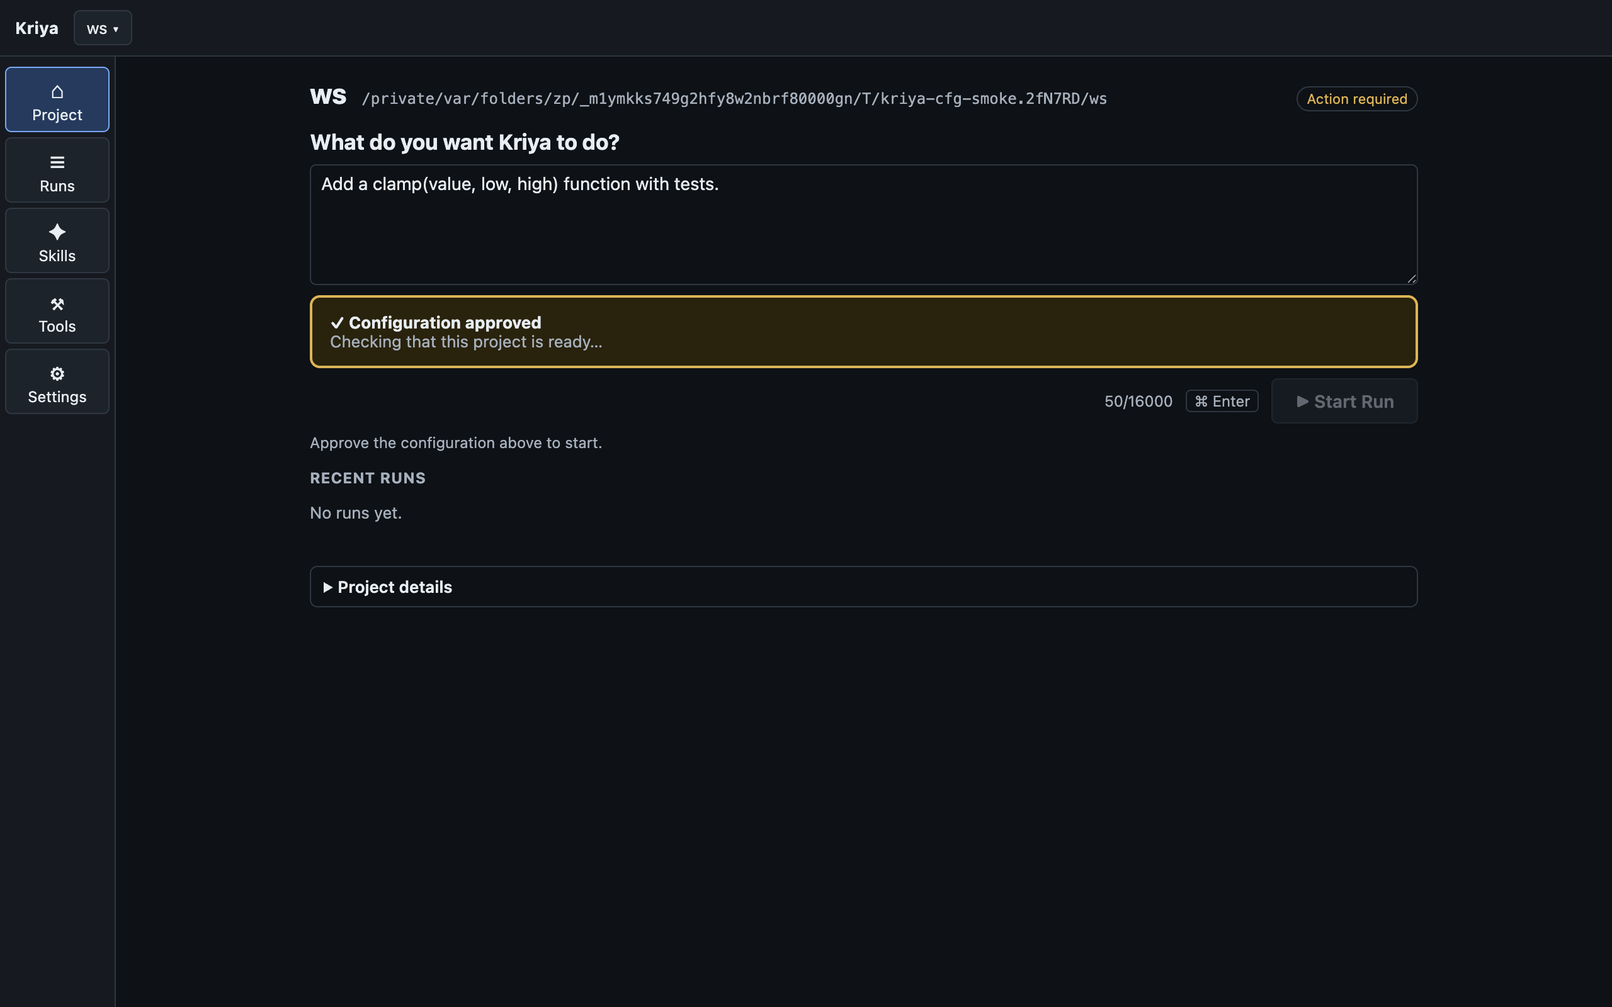
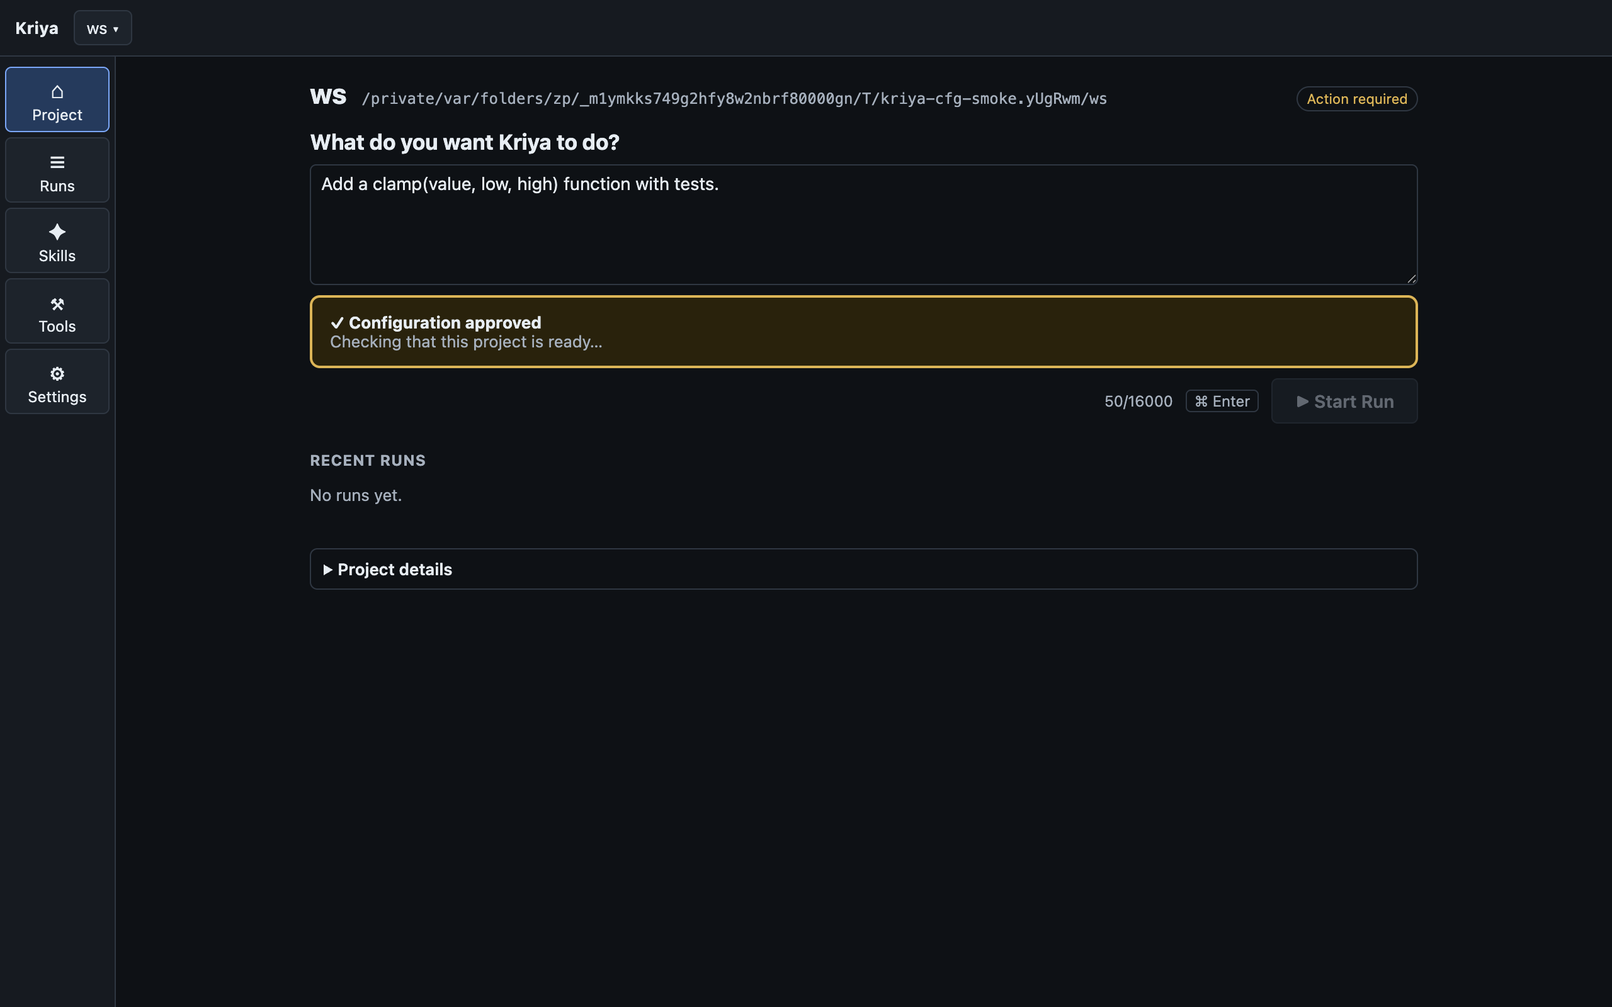
gui: review fixes for configuration approval (source and meaning shown, no dead end after an external approval), review record, re-captured evidence

Changed region(s): [[0.1875, 0.4375, 0.3438, 0.5312], [0.1875, 0.5625, 0.2812, 0.5938], [0.625, 0.0938, 0.6562, 0.125]]

diff --git a/ui/shared/src/cockpit/shell/config_approval.test.tsx b/ui/shared/src/cockpit/shell/config_approval.test.tsx
@@ -87,12 +87,14 @@ describe('B/C. the review shows protected setting NAMES and never a value', () =
   it('lists every protected setting by name, the project, the fingerprint and the scope sentence; technical details are one disclosure down', async () => {
     const host = await open();
     const d = await reviewAndApprove();
-    for (const f of FIELDS) expect(await within(d).findByText(f, { selector: 'li' })).toBeInTheDocument();
+    for (const f of FIELDS) expect(await within(d).findByText(f, { selector: 'li > span.mono' })).toBeInTheDocument();
     expect(d).toHaveTextContent('Project: workspace');
     expect(d).toHaveTextContent('Kriya requires approval for operator-controlled configuration used by this project.');
     expect(screen.getByTestId('approval-scope')).toHaveTextContent('This approval applies only to the current protected configuration. If those settings change, Kriya will require approval again.');
     expect(d).toHaveTextContent(/Configuration fingerprint: [0-9a-f]{12}/);
     expect(d).toHaveTextContent('Only the names of the settings are shown');
+    expect(screen.getByTestId('approval-meaning')).toHaveTextContent(/come from configuration files.*You are the operator: approve only if you trust this configuration/);
+    expect(within(d).getAllByText("· set by this project's kriya.yaml")).toHaveLength(FIELDS.length); // where each setting came from, in the main view
     const technical = within(d).getByText('Technical details').closest('details')!;
     expect(technical).not.toHaveAttribute('open');
     expect(technical).toHaveTextContent(host.exec!.approvalStatus(WS).fingerprint!);
@@ -130,7 +132,7 @@ describe('D/E. Cancel approves nothing; Approve sends one typed request carrying
   it('Enter inside the review does not approve (no default-keyboard approval)', async () => {
     const host = await open();
     const d = await reviewAndApprove();
-    await within(d).findByText('autonomy.mode', { selector: 'li' });
+    await within(d).findByText('autonomy.mode', { selector: 'li > span.mono' });
     fireEvent.keyDown(d, { key: 'Enter' });
     fireEvent.keyPress(d, { key: 'Enter', charCode: 13 });
     expect(host.exec!.approvals).toHaveLength(0);
@@ -138,7 +140,7 @@ describe('D/E. Cancel approves nothing; Approve sends one typed request carrying
   it('Approve Configuration is off until Kriya\'s status is read, then asks for exactly {workspace, fingerprint} - once', async () => {
     const host = await open();
     const d = await reviewAndApprove();
-    await within(d).findByText('autonomy.mode', { selector: 'li' });
+    await within(d).findByText('autonomy.mode', { selector: 'li > span.mono' });
     const fingerprint = host.exec!.approvalStatus(WS).fingerprint;
     fireEvent.click(approveButton());
     fireEvent.click(screen.queryByRole('button', { name: 'Approving…' }) ?? approveButton()); // a second click while in flight reaches nothing
@@ -155,7 +157,7 @@ describe('F/G/H. after approval readiness is read again, the goal survives and S
     typeGoal();
     const before = calls(host, 'execution.preflight');
     await reviewAndApprove();
-    await within(await dialog()).findByText('autonomy.mode', { selector: 'li' });
+    await within(await dialog()).findByText('autonomy.mode', { selector: 'li > span.mono' });
     fireEvent.click(approveButton());
     await waitFor(() => expect(screen.queryByRole('dialog')).toBeNull());
     await waitFor(() => expect(calls(host, 'execution.preflight')).toBeGreaterThan(before)); // readiness came from Kriya, not from the approval answer
@@ -179,7 +181,7 @@ describe('F/G/H. after approval readiness is read again, the goal survives and S
       return real(request);
     });
     await reviewAndApprove();
-    await within(await dialog()).findByText('autonomy.mode', { selector: 'li' });
+    await within(await dialog()).findByText('autonomy.mode', { selector: 'li > span.mono' });
     fireEvent.click(approveButton());
     await waitFor(() => expect(host.exec!.approvals).toHaveLength(1));
     expect(await screen.findByText(/Checking that this project is ready/)).toBeInTheDocument();
@@ -201,7 +203,7 @@ describe('F2. Kriya\'s next readiness answer, not the approval answer, decides w
       return real(request);
     });
     await reviewAndApprove();
-    await within(await dialog()).findByText('autonomy.mode', { selector: 'li' });
+    await within(await dialog()).findByText('autonomy.mode', { selector: 'li > span.mono' });
     fireEvent.click(approveButton());
     await waitFor(() => expect(host.exec!.approvals).toHaveLength(1));
     expect(await screen.findByText(/Checking that this project is ready/)).toBeInTheDocument();
@@ -225,7 +227,7 @@ describe('I. another blocker is never hidden', () => {
     expect(also).toHaveTextContent('TOOL_UNAVAILABLE');
     expect(also).not.toHaveTextContent('CONFIG_AUTHORITY_REFUSED');
     await reviewAndApprove();
-    await within(await dialog()).findByText('autonomy.mode', { selector: 'li' });
+    await within(await dialog()).findByText('autonomy.mode', { selector: 'li > span.mono' });
     fireEvent.click(approveButton());
     await waitFor(() => expect(host.exec!.approvals).toHaveLength(1));
     await waitFor(() => expect(screen.queryByRole('region', { name: 'Configuration approval' })).toBeNull());
@@ -242,14 +244,14 @@ describe('J. a configuration that changed while it was being reviewed is not app
     const host = await open();
     typeGoal();
     const d = await reviewAndApprove();
-    await within(d).findByText('autonomy.mode', { selector: 'li' });
+    await within(d).findByText('autonomy.mode', { selector: 'li > span.mono' });
     const reviewed = host.exec!.approvalStatus(WS).fingerprint;
     host.exec!.changeConfiguration([...FIELDS, 'execution_policy.network']); // the race: the configuration changes after Review, before Approve
     fireEvent.click(approveButton());
     expect(await within(await dialog()).findByText('Configuration changed while you were reviewing it. Review the updated configuration before approving.')).toBeInTheDocument();
     expect(host.exec!.approvals).toEqual([{ workspace: WS, fingerprint: reviewed }]);
     expect(host.exec!.approvalStatus(WS).status).toBe('required'); // NOT approved
-    expect(await within(await dialog()).findByText('execution_policy.network', { selector: 'li' })).toBeInTheDocument(); // the reload shows the updated configuration
+    expect(await within(await dialog()).findByText('execution_policy.network', { selector: 'li > span.mono' })).toBeInTheDocument(); // the reload shows the updated configuration
     expect(screen.getByRole('dialog')).toBeInTheDocument();
     expect(host.exec!.approvals).toHaveLength(1); // nothing was approved on the person's behalf
     fireEvent.click(approveButton());
@@ -260,12 +262,31 @@ describe('J. a configuration that changed while it was being reviewed is not app
   });
 });
 
+describe('F3. an approval that happened elsewhere does not strand the page', () => {
+  it('if the configuration was approved after the card appeared (e.g. in a terminal), the review says so and closing it re-reads readiness so Start Run turns on', async () => {
+    const host = spyOnQueries(await open());
+    await card();
+    typeGoal();
+    const fingerprint = host.exec!.approvalStatus(WS).fingerprint!;
+    await host.exec!.port.approveConfiguration!({ workspace: WS, fingerprint }); // approved by another client
+    const before = calls(host, 'execution.preflight');
+    const d = await reviewAndApprove();
+    expect(await within(d).findByText(/This configuration is already approved/)).toBeInTheDocument();
+    expect(approveButton()).toBeDisabled();
+    fireEvent.click(within(d).getByRole('button', { name: 'Cancel' }));
+    await waitFor(() => expect(calls(host, 'execution.preflight')).toBeGreaterThan(before));
+    await waitFor(() => expect(startButton()).toBeEnabled());
+    expect(screen.queryByRole('region', { name: 'Configuration approval' })).toBeNull();
+    expect(goalBox().value).toBe(GOAL);
+  });
+});
+
 describe('K. an approval does not outlive the configuration it was given for', () => {
   it('after a protected setting changes, the next readiness check returns the page to "Configuration approval required"', async () => {
     const host = await open();
     typeGoal();
     await reviewAndApprove();
-    await within(await dialog()).findByText('autonomy.mode', { selector: 'li' });
+    await within(await dialog()).findByText('autonomy.mode', { selector: 'li > span.mono' });
     fireEvent.click(approveButton());
     await waitFor(() => expect(startButton()).toBeEnabled());
     host.exec!.changeConfiguration();
@@ -278,7 +299,7 @@ describe('K. an approval does not outlive the configuration it was given for', (
   it('a revocation (as `kriya authority revoke`) is seen the same way', async () => {
     const host = await open();
     await reviewAndApprove();
-    await within(await dialog()).findByText('autonomy.mode', { selector: 'li' });
+    await within(await dialog()).findByText('autonomy.mode', { selector: 'li > span.mono' });
     fireEvent.click(approveButton());
     await waitFor(() => expect(screen.queryByRole('region', { name: 'Configuration approval' })).toBeNull());
     host.exec!.revokeConfigurationApproval();
@@ -291,7 +312,7 @@ describe('L. durability: the approval lives in Kriya, not in the window', () => 
   it('a brand-new window over the same backend shows the project ready without asking again', async () => {
     const host = await open();
     await reviewAndApprove();
-    await within(await dialog()).findByText('autonomy.mode', { selector: 'li' });
+    await within(await dialog()).findByText('autonomy.mode', { selector: 'li > span.mono' });
     fireEvent.click(approveButton());
     await waitFor(() => expect(host.exec!.approvals).toHaveLength(1));
     cleanup(); // the window is closed
@@ -315,7 +336,7 @@ describe('typed failures are shown, never swallowed', () => {
   it('a store that cannot be written reports Kriya\'s code and reason and leaves the project unapproved', async () => {
     await open({ configuration: { approveFault: { code: 'APPROVAL_UNAVAILABLE', message: 'The approval could not be saved: Permission denied', reason: 'store_unwritable' } } });
     await reviewAndApprove();
-    await within(await dialog()).findByText('autonomy.mode', { selector: 'li' });
+    await within(await dialog()).findByText('autonomy.mode', { selector: 'li > span.mono' });
     fireEvent.click(approveButton());
     const failure = await screen.findByText('The configuration was not approved');
     expect(failure.closest('[role="alert"]')).toHaveTextContent('APPROVAL_UNAVAILABLE: store_unwritable');
@@ -333,7 +354,7 @@ describe('typed failures are shown, never swallowed', () => {
     });
     mount(host);
     await reviewAndApprove();
-    await screen.findByText('autonomy.mode', { selector: 'li' });
+    await screen.findByText('autonomy.mode', { selector: 'li > span.mono' });
     expect(approveButton()).toBeDisabled();
     expect(host.exec!.approvals).toHaveLength(0);
   });
@@ -362,7 +383,7 @@ describe('M. the renderer holds no authority and touches no authority file', () 
     const ui = approvalSource;
     const core = executionSource;
     expect(ui + core).not.toMatch(/from 'node:|from 'fs'|child_process|require\(/);
-    expect(ui).not.toMatch(/~\/\.kriya|\/authority\/|KRIYA_AUTHORITY_HOME|KRIYA_TRUST_FILE|localStorage|sessionStorage|\.yaml/);
+    expect(ui).not.toMatch(/~\/\.kriya|\/authority\/|KRIYA_AUTHORITY_HOME|KRIYA_TRUST_FILE|localStorage|sessionStorage|readFile|writeFile/);
     expect(ui.match(/ex\.approveConfiguration\(/g)).toHaveLength(1);
     expect(ui).toMatch(/provider\.configurationApprovalStatus\(/);
     expect(ui).not.toMatch(/\bfetch\(|XMLHttpRequest|ipcRenderer|window\.kriyaHost/);

diff --git a/ui/shared/src/cockpit/modules/workspace/ConfigApproval.tsx b/ui/shared/src/cockpit/modules/workspace/ConfigApproval.tsx
@@ -21,6 +21,15 @@ export function useApprovalStatus(workspace: string | null, nonce: number, enabl
     unavailable<ConfigurationApprovalStatus>('unknown_run', 'No workspace is open.'));
 }
 
+/** Where Kriya says a protected setting came from, in plain words (the raw source name stays in Technical details). */
+const SOURCE_WORDS: Record<string, string> = {
+  auto_discovered_cwd: 'set by this project\'s kriya.yaml',
+  auto_discovered_install_dir: 'set by the Kriya installation\'s kriya.yaml',
+  explicit_config_path_inside_workspace: 'set by a configuration file inside this project',
+  explicit_config_path_outside_workspace: 'set by an explicitly named configuration file',
+  runtime_profile_override: 'implied by the configured runtime profile',
+};
+
 const short = (fingerprint: string | null) => (fingerprint === null ? '' : fingerprint.replace(/^sha256:/, '').slice(0, 12));
 
 /**
@@ -59,6 +68,7 @@ function ReviewDialog({ onClose, onApproved }: { onClose(): void; onApproved(): 
         <h2>Configuration approval</h2>
         <div>Project: <strong>{name}</strong>{workspace ? <> <span className="muted mono small" title={workspace}>{workspace}</span></> : null}</div>
         <p>Kriya requires approval for operator-controlled configuration used by this project.</p>
+        <p className="muted small" data-testid="approval-meaning">These settings come from configuration files, not from Kriya&apos;s defaults. Approving lets Kriya use them for runs in this project, including the model server address and any tools or programs they name. You are the operator: approve only if you trust this configuration.</p>
         {state.state === 'loading' ? <p className="muted" role="status">Reading the configuration…</p> : null}
         {state.state !== 'loading' && state.state !== 'ready' ? (
           <div className="ck-state" role="alert"><strong>The configuration could not be read</strong>{state.state === 'error' ? `${state.message} (${state.code})` : 'Kriya did not answer.'}
@@ -73,8 +83,8 @@ function ReviewDialog({ onClose, onApproved }: { onClose(): void; onApproved(): 
             {status.protected_fields.length ? (
               <>
                 <h3 className="ck-action-sub">Protected settings</h3>
-                <ul aria-label="Protected settings" style={{ margin: '2px 0' }}>{status.protected_fields.map((f) => <li key={f.field} className="mono">{f.field}</li>)}</ul>
-                <div className="muted small">Only the names of the settings are shown. Their values are not displayed.</div>
+                <ul aria-label="Protected settings" style={{ margin: '2px 0' }}>{status.protected_fields.map((f) => <li key={f.field}><span className="mono">{f.field}</span> <span className="muted small">· {SOURCE_WORDS[f.source] ?? f.source}</span></li>)}</ul>
+                <div className="muted small">Only the names of the settings are shown; their values are not displayed. A name does not describe what a setting does, so open the project&apos;s kriya.yaml in your editor if you want to read the values first.</div>
                 <div>Configuration fingerprint: <span className="mono" title={status.fingerprint ?? ''}>{short(status.fingerprint)}</span></div>
               </>
             ) : null}
@@ -130,7 +140,7 @@ export function ConfigApprovalCard({ onDetails, onApproved }: { onDetails(): voi
         <button type="button" className="ck-link" onClick={onDetails}>View configuration</button>
         <Badge tone="warn">Needs your approval</Badge>
       </div>
-      {open ? <ReviewDialog onClose={() => setOpen(false)} onApproved={() => { setOpen(false); setJustApproved(true); onApproved(); }} /> : null}
+      {open ? <ReviewDialog onClose={() => { setOpen(false); ex.refreshPreflight(); }} onApproved={() => { setOpen(false); setJustApproved(true); onApproved(); }} /> : null}
     </section>
   );
 }

diff --git a/handover/DEMO-V2/GUI-CONFIG-APPROVAL.md b/handover/DEMO-V2/GUI-CONFIG-APPROVAL.md
@@ -48,3 +48,44 @@ Renderer ──▶ `execution.preflight` (existing, uncached) refreshes readines
 Unchanged: which fields need approval, digest calculation (`compute_value_digest`, `compute_set_digest`, artifact digest), SEC-009 decision logic, artifact format and location, approval lifetime, trust model. New: two KUP operations, one typed IPC channel, a review fingerprint used only for comparison, one extracted function shared by the CLI and KUP.
 
 (Results, tests, review record and screenshots are appended below as the work completes.)
+
+## 4. What was built
+
+* Backend: `kriya/kup/authority_ops.py` (`configuration.approval_status`, `configuration.approve`); `authority_approval.grant_local_approval()` (one write path, now also used by `kriya authority approve`) and `review_fingerprint()`; `serve.py` lists the two operations in `NO_CONFIGURATION_OPERATIONS` (they load no service configuration, as `kriya authority` is reachable while a configuration is denied). New closed error codes `APPROVAL_STALE`, `APPROVAL_UNAVAILABLE`.
+* Contract: `ui/kup/schema` (payloads, `KupRequest` entries, `ApproveConfigurationRequest/Result`), regenerated TS/Ajv/Java (`check:generated` current, `java:check` OK). The `protected_fields` items are `additionalProperties: false`, so **the contract itself refuses an answer that carries a value** (tested: the renderer shows a typed error, never the value).
+* Host: IPC channel `kriya:host:config:approve`, `config_approval_host.ts` (closed grammar `{workspace, fingerprint}`, open-workspace check, in-flight guard, passes Kriya's answer through). `configuration.approve` is refused on the generic query channel (as `workspace.create`); `kriya_argv` has no one-shot form for it.
+* Renderer: `ConfigApproval.tsx` (ACTION REQUIRED card, review dialog), `GoalComposer.tsx` (other blockers stay visible under "Also needs attention"), `ExecutionApi.approveConfiguration` (always re-reads the preflight; `preflightStale` while it is in flight). Wording: the terminal instruction is gone from the Project page; it remains only (a) as a fallback for a host with no approval port and (b) in Kriya's own blocker message shown in diagnostics.
+
+## 5. Verification (this session, HEAD after commit 0b92510 + review fixes)
+
+| Check | Result |
+|---|---|
+| Backend `tests/test_kup_config_approval.py` (equivalence with the CLI in both directions, TOCTOU, stale-after-change, restart/durability, redaction, grammar, unavailable conditions, store faults, service path) | 36 pass; 9 mutants (no fingerprint compare, constant fingerprint, coverage always true, grammar admits values, no trust-file refusal, value leak, CLI no longer shares the write, exemption removed, idempotence) all killed |
+| Existing authority/KUP: `test_sec009*`, `test_authority_cli_refusal`, `test_kup_*` (incl. error-code and vocabulary tripwires, updated for the two new codes/operations) | pass (790 in the wide targeted run; the one failure is the owner's vim swap file, see below) |
+| Real KUP + host + real CLI + launched run (`ui/standalone/test/config_approval_real.test.ts`) | 11 pass: GUI approval is CURRENT for `kriya authority inspect`, honoured by a launched run, stored in the operator HOME outside the folder with no secret; reverse direction; race refused with nothing written; drift; restart; idempotence; typed errors |
+| Host unit `config_approval_host.test.ts` | 8 pass |
+| Renderer `config_approval.test.tsx` (A-M of the spec + extras) | 23 pass; 11 UI + 7 host mutants all killed (3 survivors on first pass were real test gaps; tests added) |
+| Full suites | ui/shared 591 pass (568 before), ui/standalone 367 pass 1 skipped (348 before), ui/kup 66 pass, test-host 48 pass |
+| typecheck, eslint, `check:shared-deps`, `check:generated`, `java:check`, ruff, pylint | all clean |
+| Electron smoke (`demo-v2/scripts/config_approval_smoke.sh`, controlled body, scratch HOME, no model) | journey Open Folder -> ACTION REQUIRED -> Review -> Approve -> Ready (goal kept, Start Run on) -> Start Run -> COMPLETED; Start Run bottom edge 396 px at 1280x800, 1400x900, 1100x700; no secret in the page; after the app exited the real `kriya authority inspect` reported the approval CURRENT, the artifact held no secret, nothing was written into the project |
+
+## 6. Observations (not changed here)
+
+* **Pre-existing:** `kriya authority inspect|approve` print `llm.base_url` in clear including URL credentials (`describe_pending` redacts only `env` and `api_key`). The GUI sends no values at all, so it is unaffected. Recorded for the owner; a display-redaction fix is a CLI change outside this task.
+* The review fingerprint is process-local: restarting the Kriya service between Review and Approve refuses the approval as stale and the person reviews again (safe direction, tested).
+* No Revoke UI (the CLI `kriya authority revoke` remains; `reset_demo.sh` revokes).
+
+## 7. Independent review (fresh reviewer, read-only, commits 89ca45b + 0b92510)
+
+Verdicts as reported: **Security PASS (conditional)**, **UX FAIL (not yet)**; no BLOCKING finding. The reviewer verified: one shared write path (`grant_local_approval`), request shape enforced three times (host grammar, service allowlist, `serve.ARGUMENTS`), query channel refusal, double workspace gate, resolve+compare+write under one lock hold, no value/path/digest to the renderer, child environment without `KRIYA_TRUST_FILE`/`KRIYA_AUTHORITY_HOME`, Electron hardening, CLI refactor behaviour-neutral, no approve-on-Enter.
+
+| # | Sev | Finding | Disposition |
+|---|---|---|---|
+| 1 | IMPORTANT | The human confirmation is a renderer click; there is no main-process (native dialog) confirmation, so a compromised renderer could call status -> approve -> start. The fingerprint binds to configuration drift, not to a human review. | **OWNER DECISION, not implemented.** This is the same trust model as the existing change-approval path (renderer click -> typed IPC -> Kriya), and a hostile renderer already controls Start Run. A native `dialog.showMessageBox` inside `ConfigApprovalHost` would add a second confirmation to every approval; it is a small, separable hardening if the owner wants it. The earlier sentence "renderer cannot approve what it did not review" is corrected: it holds against configuration drift (TOCTOU), not against a compromised renderer. |
+| 2 | IMPORTANT | Names-only review: the person approves without seeing values; the CLI shows redacted values. | **Partly fixed.** Each setting now shows where it came from ("set by this project's kriya.yaml") in the main view, and the dialog says that a name does not describe behaviour and to read the kriya.yaml first. A safe value projection needs authoritative per-field display metadata that does not exist (stop condition 5): deferred. |
+| 3 | IMPORTANT | Dead end if the configuration was approved elsewhere after the card appeared: "Close" did not re-read readiness. | **Fixed + test** (closing the review re-reads the preflight; mutation-checked: removing it fails the test). |
+| 4 | IMPORTANT | Jargon; no statement of what approving permits or who the operator is. | **Fixed (wording):** the dialog now says the settings come from configuration files, that approving lets Kriya use them (model server address, tools/programs they name), that the person is the operator and should approve only if they trust it. |
+| 5 | COSMETIC | Evidence 03 still showed the stale "Approve the configuration above to start." | Fixed in 0b92510; screenshots re-captured on the final build. |
+| 6 | COSMETIC | For an `unavailable` status the card still says Review & Approve / "Needs your approval". | Recorded, not changed (the dialog explains why it cannot be done here). |
+| 7 | COSMETIC | A mid-review restart of the Kriya service shows "Configuration changed...". | Recorded; safe direction, wording follows the spec. |
+| 8 | COSMETIC | Doc uncommitted at review time. | Committed with this update. |
